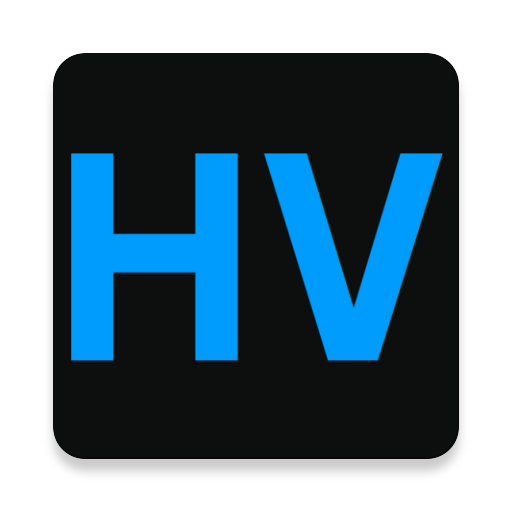
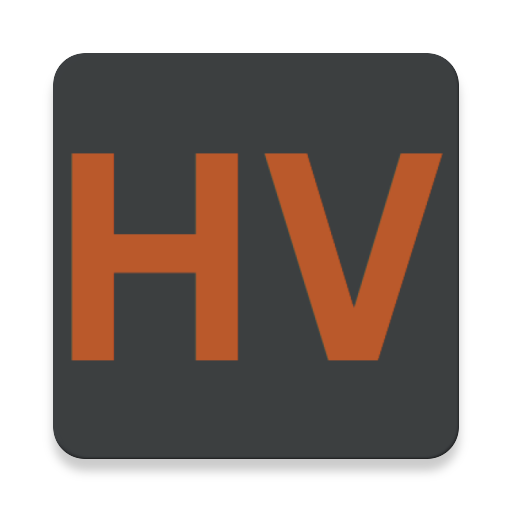
Stable Version
Changed app icon
Revamped colours
Fixed keyboard bug keeping focus after entering the main activity
Gave the login page a background

diff --git a/app/src/main/java/thetachanka/club/happyvalleyapp/MainActivity.java b/app/src/main/java/thetachanka/club/happyvalleyapp/MainActivity.java
@@ -11,7 +11,7 @@ public class MainActivity extends AppCompatActivity {
     @Override
     protected void onCreate(Bundle savedInstanceState) {
         super.onCreate(savedInstanceState);
-        getSupportActionBar().setTitle("Timetable 2018");
+        getSupportActionBar().setTitle("Upcoming Event");
         setContentView(R.layout.activity_main);
 
         String timetable_url = "http://thetachanka.club:5000/timetable/";
@@ -34,6 +34,7 @@ public class MainActivity extends AppCompatActivity {
         timetableButton.setOnClickListener(new View.OnClickListener() {
             @Override
             public void onClick(View view) {
+                getSupportActionBar().setTitle("Timetable");
                 findViewById(R.id.web_timetable).setVisibility(View.VISIBLE);
                 findViewById(R.id.web_images).setVisibility(View.INVISIBLE);
                 findViewById(R.id.web_event).setVisibility(View.INVISIBLE);
@@ -44,6 +45,7 @@ public class MainActivity extends AppCompatActivity {
         imagesButton.setOnClickListener(new View.OnClickListener() {
             @Override
             public void onClick(View view) {
+                getSupportActionBar().setTitle("Happy Valley Images");
                 findViewById(R.id.web_timetable).setVisibility(View.INVISIBLE);
                 findViewById(R.id.web_images).setVisibility(View.VISIBLE);
                 findViewById(R.id.web_event).setVisibility(View.INVISIBLE);
@@ -54,6 +56,7 @@ public class MainActivity extends AppCompatActivity {
         nextEventButton.setOnClickListener(new View.OnClickListener() {
             @Override
             public void onClick(View view) {
+                getSupportActionBar().setTitle("Upcoming Event");
                 findViewById(R.id.web_timetable).setVisibility(View.INVISIBLE);
                 findViewById(R.id.web_images).setVisibility(View.INVISIBLE);
                 findViewById(R.id.web_event).setVisibility(View.VISIBLE);

diff --git a/app/src/main/java/thetachanka/club/happyvalleyapp/LoginPage.java b/app/src/main/java/thetachanka/club/happyvalleyapp/LoginPage.java
@@ -1,9 +1,11 @@
 package thetachanka.club.happyvalleyapp;
 
+import android.content.Context;
 import android.content.Intent;
 import android.support.v7.app.AppCompatActivity;
 import android.os.Bundle;
 import android.view.View;
+import android.view.inputmethod.InputMethodManager;
 
 import com.goodiebag.pinview.Pinview;
 
@@ -18,8 +20,11 @@ public class LoginPage extends AppCompatActivity {
         pinview.setPinViewEventListener(new Pinview.PinViewEventListener() {
             @Override
             public void onDataEntered(Pinview pinview, boolean b) {
-                if (pinview.getValue().equals("1234")) {
+                if (pinview.getValue().equals("faith")) {
                     findViewById(R.id.incorrect_password).setVisibility(View.INVISIBLE);
+                    InputMethodManager imm = (InputMethodManager)getSystemService(Context.INPUT_METHOD_SERVICE);
+                    imm.hideSoftInputFromWindow(pinview.getWindowToken(), 0);
+                    pinview.setValue("");
                     startActivity(new Intent(getApplicationContext(), MainActivity.class));
                 } else {
                     findViewById(R.id.incorrect_password).setVisibility(View.VISIBLE);
